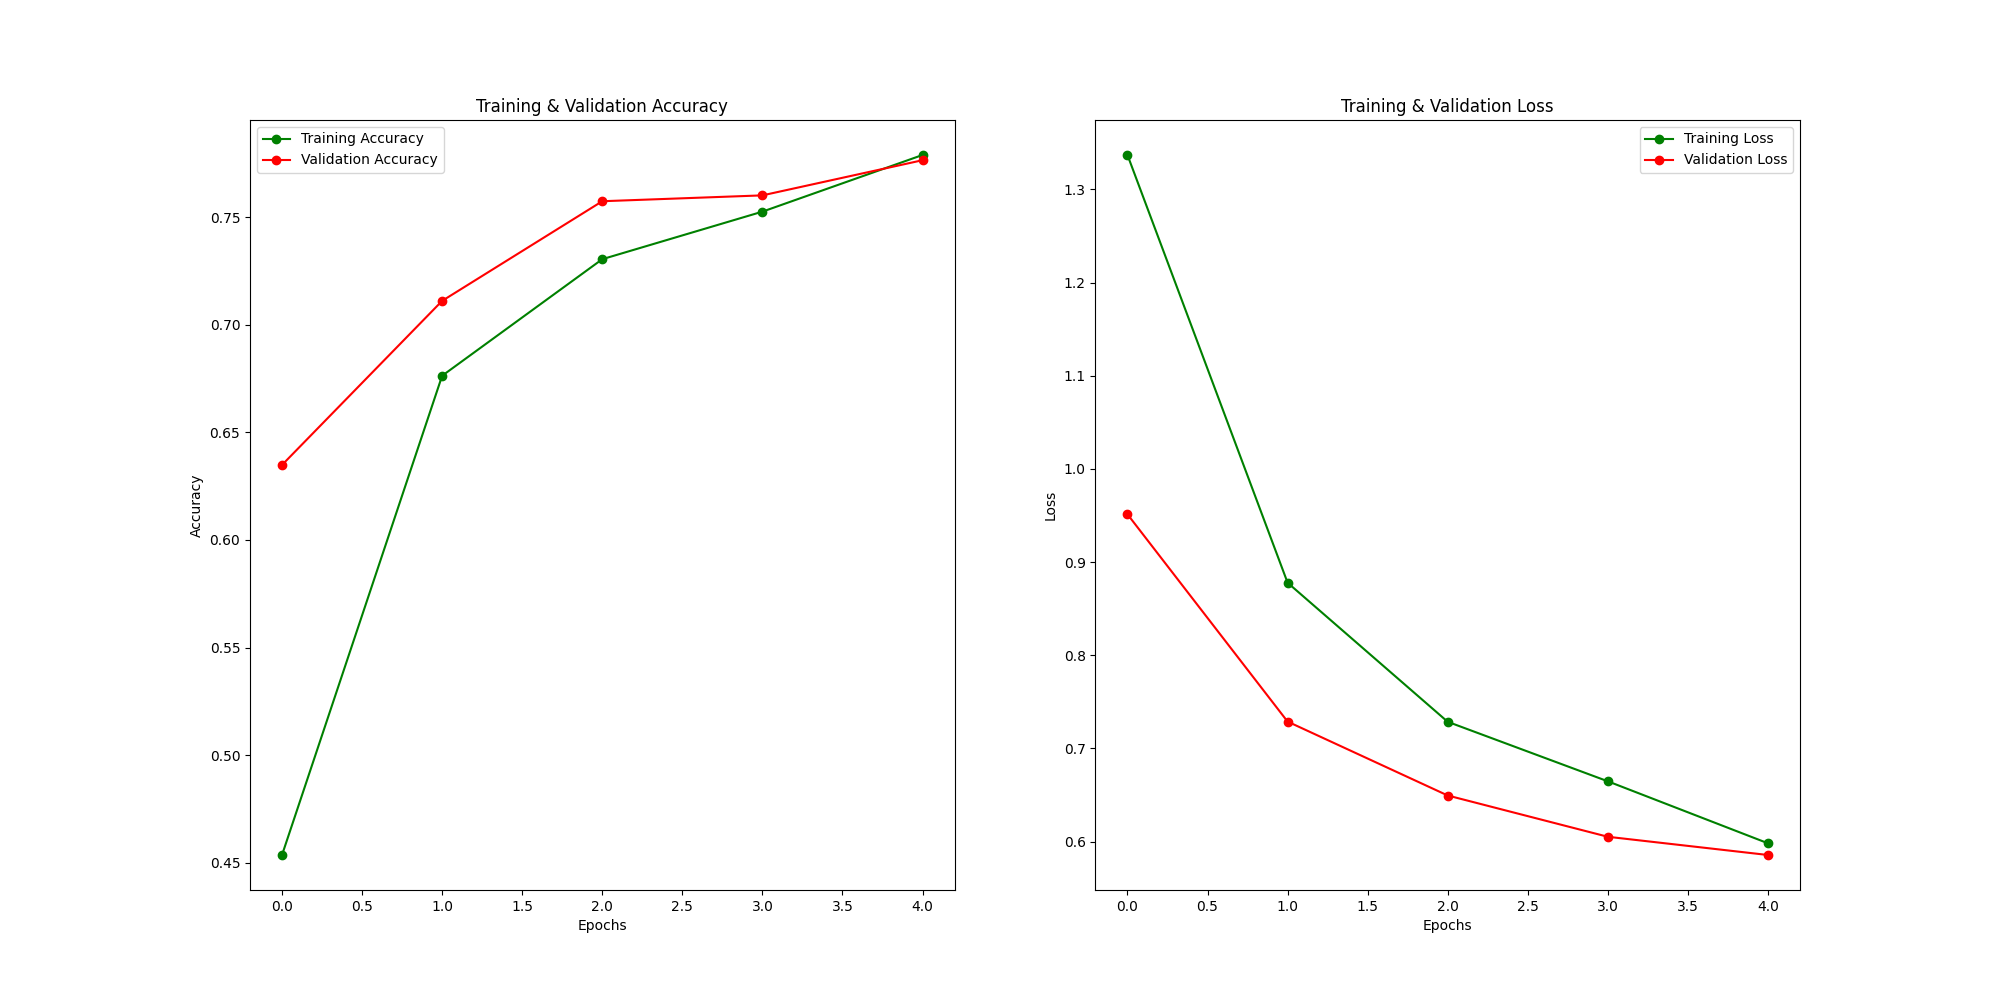
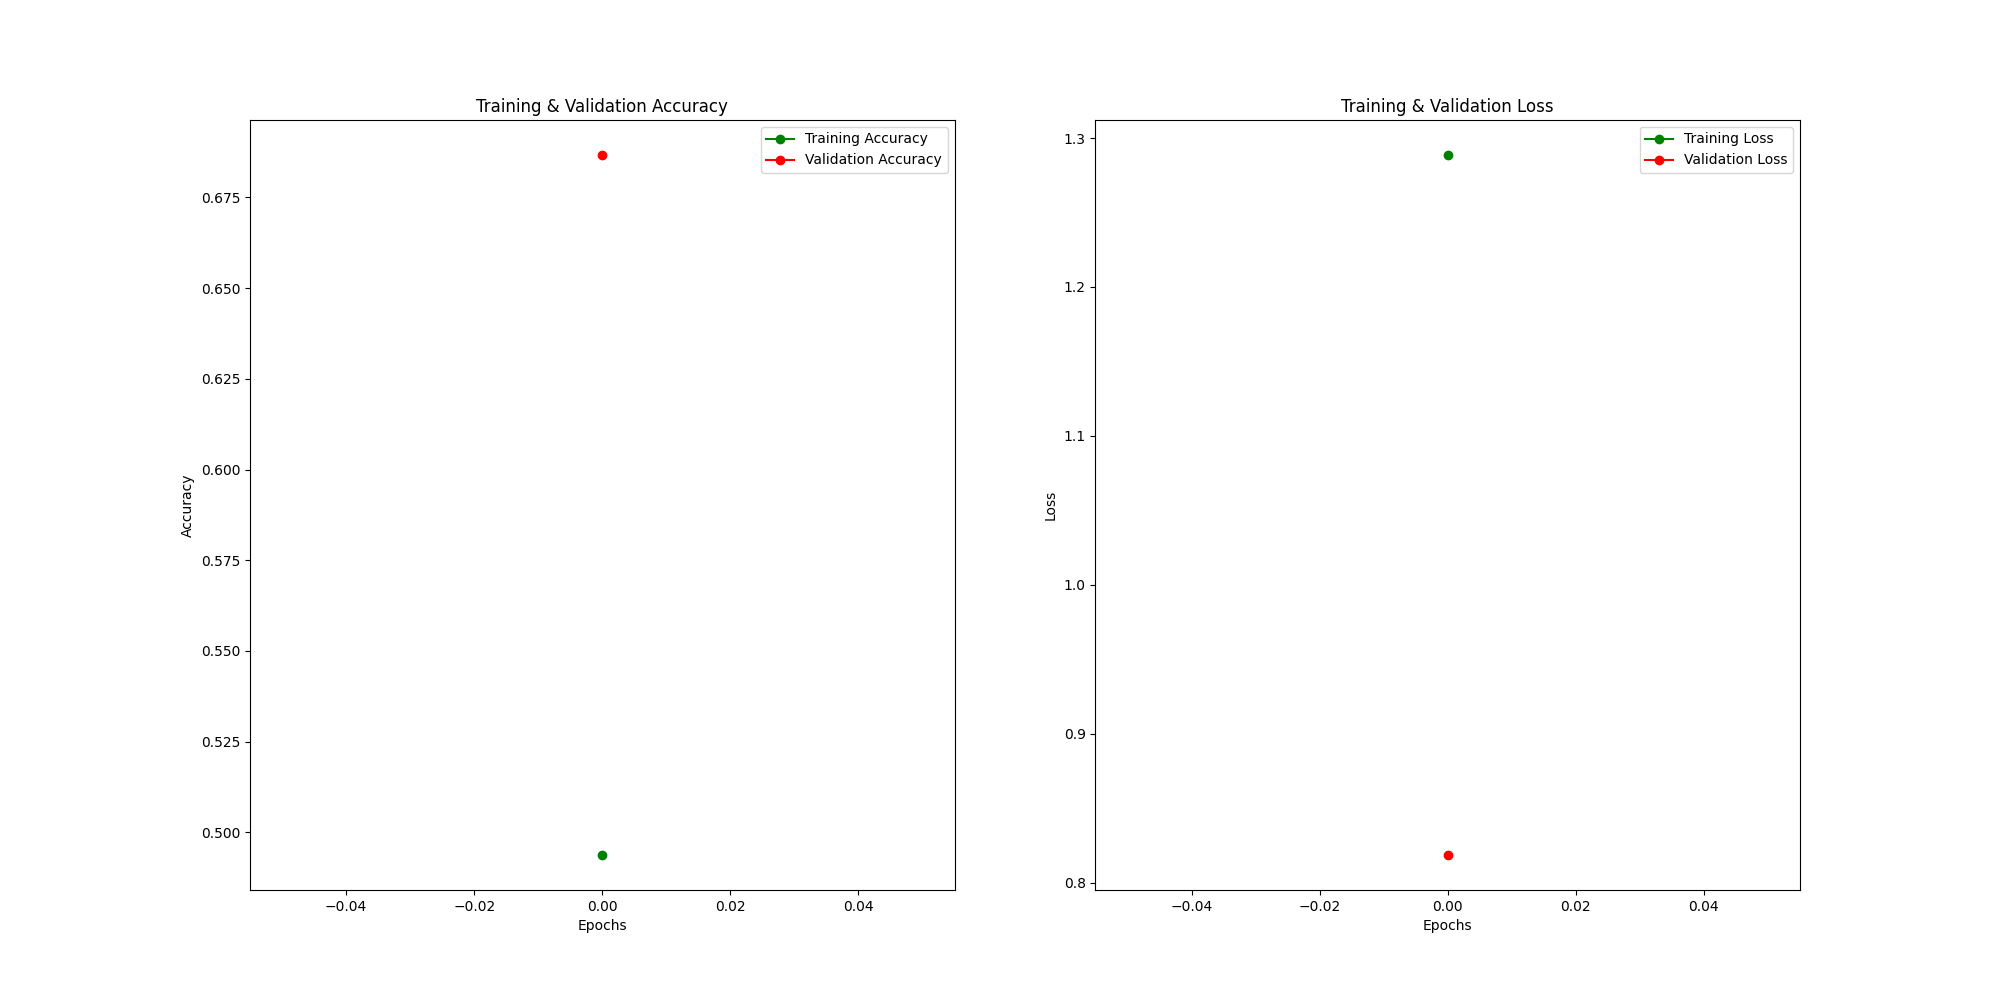
create dev branch and restructure the project

diff --git a/train.py b/train.py
@@ -2,12 +2,7 @@ import os
 import numpy as np
 import matplotlib.pyplot as plt
 import warnings
-
-import cv2
 from tqdm import tqdm
-
-import glob
-import random
 
 from albumentations import (
     HorizontalFlip, VerticalFlip, ShiftScaleRotate, Transpose, ShiftScaleRotate,  HueSaturationValue,
@@ -16,20 +11,19 @@ from albumentations import (
 )
 from albumentations.pytorch import ToTensorV2
 
-import timm
-
 import torch
 import torch.nn as nn
 import torch.nn.functional as F
-from torch.utils.data import DataLoader, Dataset
+from torch.utils.data import DataLoader
 from torch.cuda.amp import autocast, GradScaler
-
-from sklearn.metrics import accuracy_score
 
 warnings.simplefilter("ignore")
 
-from pandas.core.common import flatten
 import platform
+
+from model.resnet import ResNetModel
+from utils.utils import Utils
+from data.dataset import FlowerDataset
 
 def plot_results(train_acc, valid_acc, train_loss, valid_loss, nb_epochs):
     epochs = [i for i in range(nb_epochs)]
@@ -61,7 +55,7 @@ class Config:
     CFG = {
         'img_size': 100,
         'wd': 1e-6,
-        'epochs': 5
+        'epochs': 1
     }
 
 class Augments:
@@ -88,71 +82,6 @@ class Augments:
             Normalize(mean=[0.485, 0.456, 0.406], std=[0.229, 0.224, 0.225], max_pixel_value=255.0, p=1.0),
             ToTensorV2(p=1.0),
         ], p=1.)
-    
-class ResNetModel(nn.Module):
-    """
-    Model Class for ResNet Models
-    """
-    def __init__(self, num_classes=5, model_name='resnet18', pretrained=True):
-        super(ResNetModel, self).__init__()
-        self.model = timm.create_model(model_name, pretrained=pretrained)
-        self.model.fc = nn.Linear(self.model.fc.in_features, num_classes)
-        
-    def forward(self, x):
-        x = self.model(x)
-        return x
-
-class Utils:
-    def __init__(self, train_data_path, val_data_path):
-        self.train_data_path = train_data_path 
-        self.val_data_path = val_data_path 
-
-        self.train_image_paths = []
-        self.val_image_paths = []
-        self.classes = []
-
-    def get_image_path(self):
-        for data_path in glob.glob(self.train_data_path + '/*'):
-            self.classes.append(data_path.split('/')[-1])
-            self.train_image_paths.append(glob.glob(data_path + '/*'))
-
-        self.train_image_paths = list(flatten(self.train_image_paths))
-        random.shuffle(self.train_image_paths)
-
-        print('train_image_path example: ', self.train_image_paths[0])
-        print('class example: ', self.classes[0])
-
-        # val
-        for data_path in glob.glob(self.val_data_path + '/*'):
-            self.val_image_paths.append(glob.glob(data_path + '/*'))
-        self.val_image_paths = list(flatten(self.val_image_paths))
-        
-        return self.train_image_paths, self.val_image_paths
-    def idx_to_class(self):
-        return {i:j for i, j in enumerate(self.classes)}
-    
-    def class_to_idx(self):
-        return {value:key for key,value in self.idx_to_class().items()}
-
-class FlowerDataset(Dataset):
-    def __init__(self, image_paths, class_to_idx, transform=False):
-        self.image_paths = image_paths
-        self.transform = transform
-        self.class_to_idx = class_to_idx
-    def __len__(self):
-        return len(self.image_paths)
-
-    def __getitem__(self, idx):
-        image_filepath = self.image_paths[idx]
-        image = cv2.imread(image_filepath)
-        image = cv2.cvtColor(image, cv2.COLOR_BGR2RGB)
-
-        label = image_filepath.split('/')[-2]
-        label = self.class_to_idx[label]
-        if self.transform is not None:
-            image = self.transform(image=image)["image"]
-
-        return image, label
 
 class Trainer:
     def __init__(self, train_dataloader, valid_dataloader, model, optimizer, loss_fn, val_loss_fn, scheduler, device="cuda:0", plot_results=True):

diff --git a/utils/utils.py b/utils/utils.py
@@ -1,0 +1,35 @@
+import glob
+import random
+from pandas.core.common import flatten
+
+class Utils:
+    def __init__(self, train_data_path, val_data_path):
+        self.train_data_path = train_data_path 
+        self.val_data_path = val_data_path 
+
+        self.train_image_paths = []
+        self.val_image_paths = []
+        self.classes = []
+
+    def get_image_path(self):
+        for data_path in glob.glob(self.train_data_path + '/*'):
+            self.classes.append(data_path.split('/')[-1])
+            self.train_image_paths.append(glob.glob(data_path + '/*'))
+
+        self.train_image_paths = list(flatten(self.train_image_paths))
+        random.shuffle(self.train_image_paths)
+
+        print('train_image_path example: ', self.train_image_paths[0])
+        print('class example: ', self.classes[0])
+
+        # val
+        for data_path in glob.glob(self.val_data_path + '/*'):
+            self.val_image_paths.append(glob.glob(data_path + '/*'))
+        self.val_image_paths = list(flatten(self.val_image_paths))
+        
+        return self.train_image_paths, self.val_image_paths
+    def idx_to_class(self):
+        return {i:j for i, j in enumerate(self.classes)}
+    
+    def class_to_idx(self):
+        return {value:key for key,value in self.idx_to_class().items()}

diff --git a/data/dataset.py b/data/dataset.py
@@ -1,0 +1,22 @@
+from torch.utils.data import DataLoader, Dataset
+import cv2
+
+class FlowerDataset(Dataset):
+    def __init__(self, image_paths, class_to_idx, transform=False):
+        self.image_paths = image_paths
+        self.transform = transform
+        self.class_to_idx = class_to_idx
+    def __len__(self):
+        return len(self.image_paths)
+
+    def __getitem__(self, idx):
+        image_filepath = self.image_paths[idx]
+        image = cv2.imread(image_filepath)
+        image = cv2.cvtColor(image, cv2.COLOR_BGR2RGB)
+
+        label = image_filepath.split('/')[-2]
+        label = self.class_to_idx[label]
+        if self.transform is not None:
+            image = self.transform(image=image)["image"]
+
+        return image, label

diff --git a/model/resnet.py b/model/resnet.py
@@ -1,0 +1,16 @@
+import torch.nn as nn
+import timm
+
+
+class ResNetModel(nn.Module):
+    """
+    Model Class for ResNet Models
+    """
+    def __init__(self, num_classes=5, model_name='resnet18', pretrained=True):
+        super(ResNetModel, self).__init__()
+        self.model = timm.create_model(model_name, pretrained=pretrained)
+        self.model.fc = nn.Linear(self.model.fc.in_features, num_classes)
+        
+    def forward(self, x):
+        x = self.model(x)
+        return x
